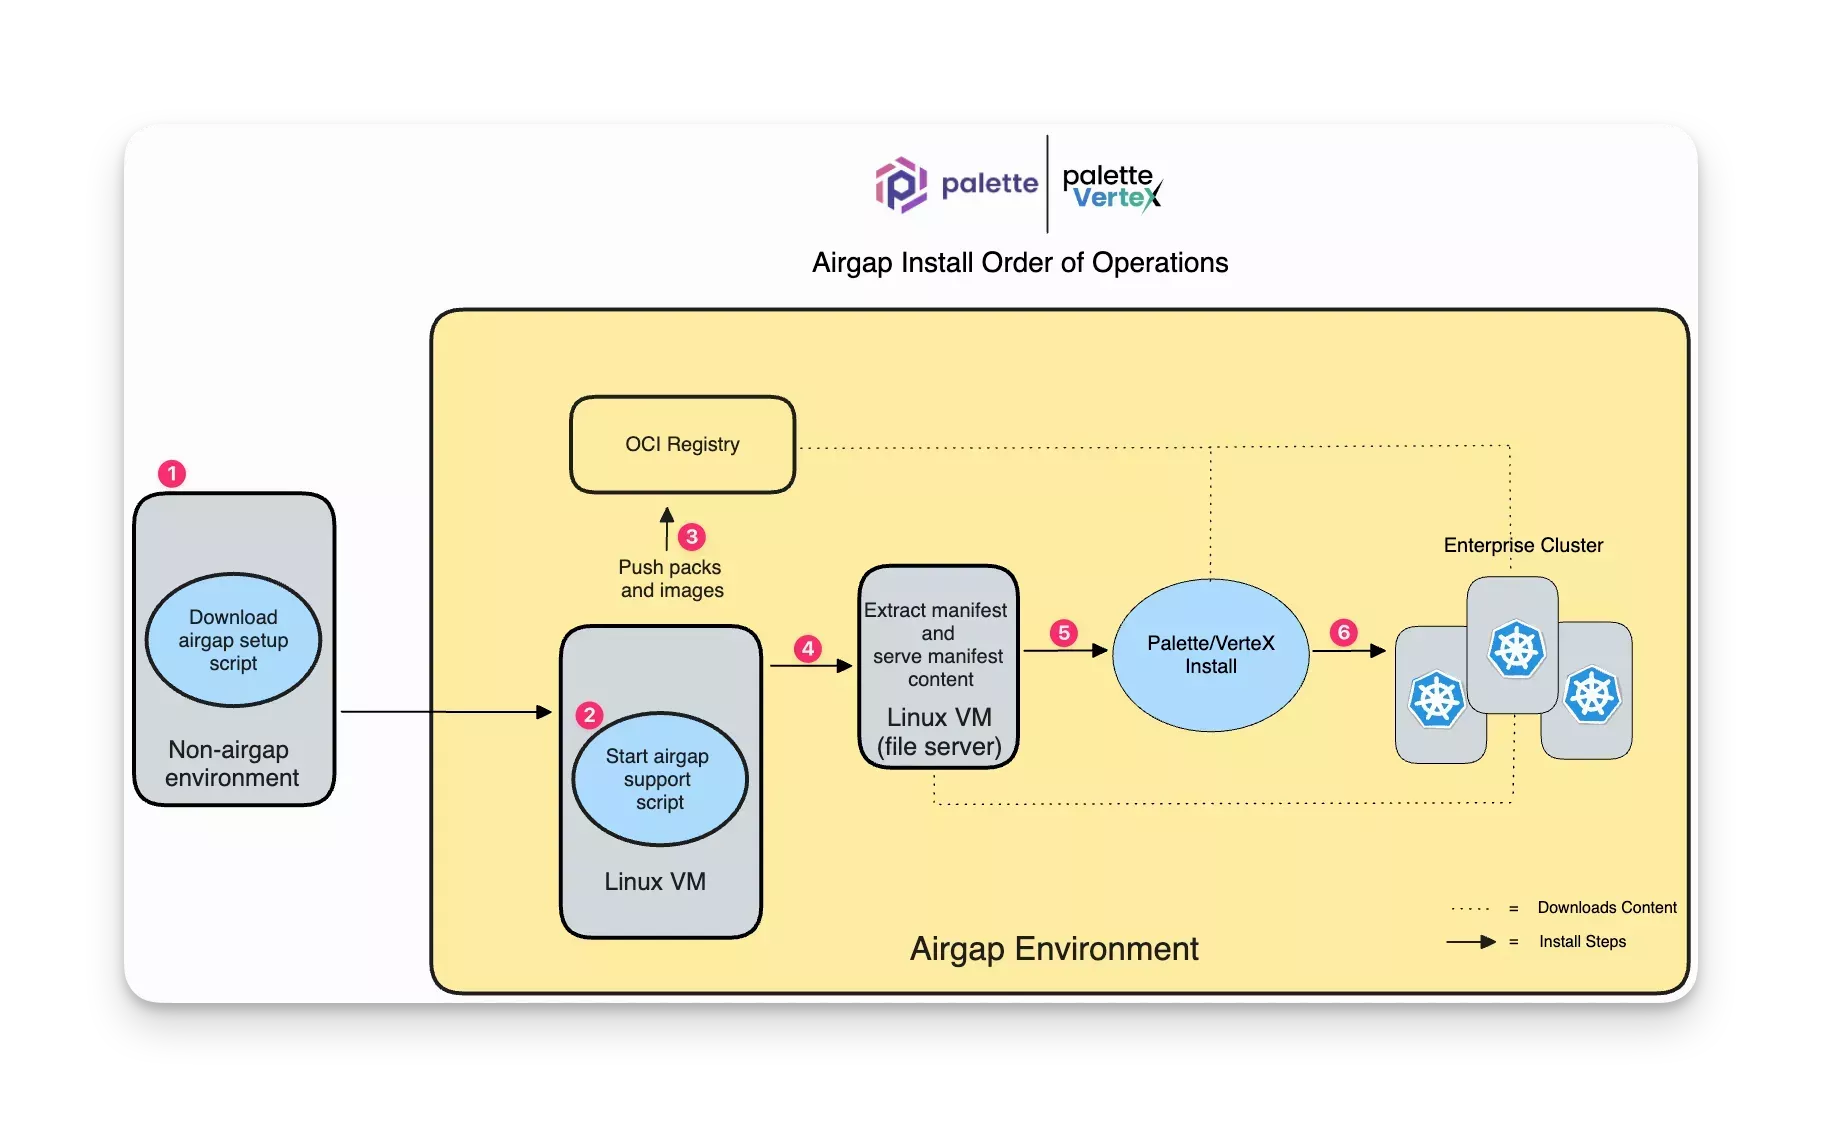
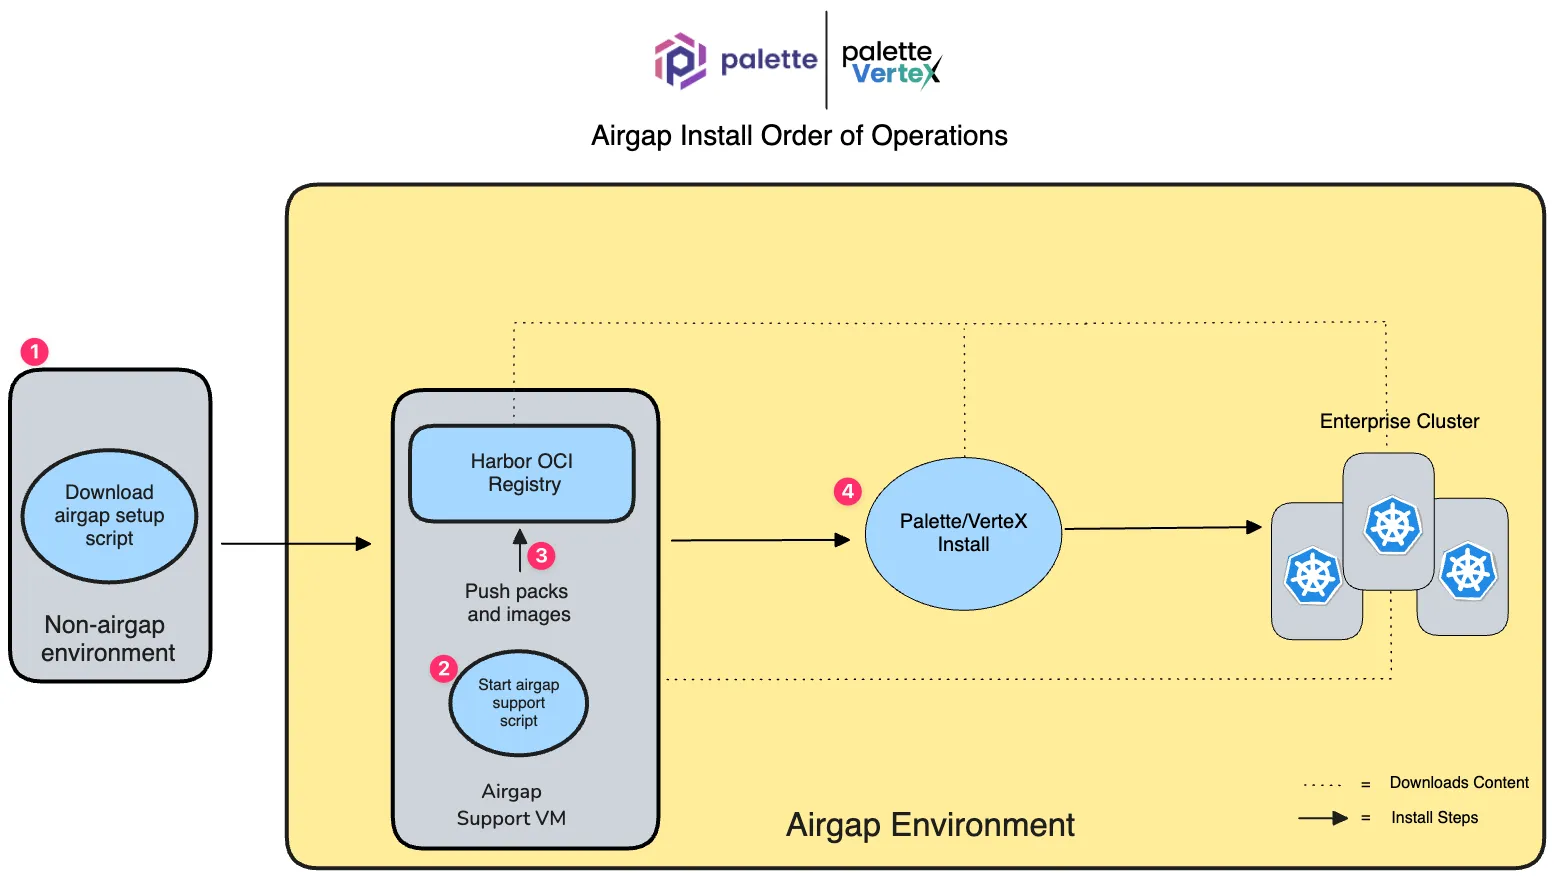
docs: update airgap overview image

diff --git a/docs/docs-content/enterprise-version/install-palette/airgap/airgap.md b/docs/docs-content/enterprise-version/install-palette/airgap/airgap.md
@@ -41,15 +41,11 @@ following diagram outlines the major pre-install steps for an airgap installatio
    content and upload the required images and packs to your private OCI registry. Start the airgap setup binary in a
    Linux Virtual Machine (VM).
 
-3. The airgap script will push the required images and packs to your private OCI registry.
+3. The airgap script will push the required images and packs the built-in [Harbor](https://goharbor.io/) OCI registry.
 
-4. Extract the manifest content from the airgap setup binary. The manifest content must be hosted on a web server that
-   is accessible from the airgap environment. You can use the same Linux VM from step 2 to host the manifest content or
-   use a different web server.
+4. Install Palette using the Palette CLI or the Kubernetes Helm chart.
 
-5. Install Palette using the Palette CLI or the Kubernetes Helm chart.
-
-6. Configure your Palette environment.
+5. Configure your Palette environment.
 
 ## Get Started
 

diff --git a/docs/docs-content/vertex/install-palette-vertex/airgap/airgap.md b/docs/docs-content/vertex/install-palette-vertex/airgap/airgap.md
@@ -41,15 +41,11 @@ following diagram outlines the major pre-install steps for an airgap installatio
    content and upload the required images and packs to your private OCI registry. Start the airgap setup binary in a
    Linux Virtual Machine (VM).
 
-3. The airgap script will push the required images and packs to your private OCI registry.
+3. The airgap script will push the required images and packs the built-in [Harbor](https://goharbor.io/) OCI registry.
 
-4. Extract the manifest content from the airgap setup binary. The manifest content must be hosted on a web server that
-   is accessible from the airgap environment. You can use the same Linux VM from step 2 to host the manifest content or
-   use a different web server.
+4. Install Palette using the Palette CLI or the Kubernetes Helm chart.
 
-5. Install Palette using the Palette CLI or the Kubernetes Helm chart.
-
-6. Configure your VerteX environment.
+5. Configure your VerteX environment.
 
 ## Get Started
 

diff --git a/docs/docs-content/enterprise-version/install-palette/install-on-vmware/airgap-install/airgap-install.md b/docs/docs-content/enterprise-version/install-palette/install-on-vmware/airgap-install/airgap-install.md
@@ -43,11 +43,7 @@ following diagram outlines the major pre-installation steps for an airgap instal
 
 3. The airgap script will push the required images and packs to your private OCI registry.
 
-4. Extract the manifest content from the airgap setup binary. The manifest content must be hosted on a web server that
-   is accessible from the airgap environment. You can use the same Linux VM from step 2 to host the manifest content or
-   use a different web server.
-
-5. Install Palette using the Palette CLI or the Kubernetes Helm chart.
+4. Install Palette using the Palette CLI or the Kubernetes Helm chart.
 
 Configure your Palette environment
 

diff --git a/docs/docs-content/vertex/install-palette-vertex/install-on-vmware/airgap-install/airgap-install.md b/docs/docs-content/vertex/install-palette-vertex/install-on-vmware/airgap-install/airgap-install.md
@@ -43,11 +43,7 @@ following diagram outlines the major pre-installation steps for an airgap instal
 
 3. The airgap script will push the required images and packs to your private OCI registry.
 
-4. Extract the manifest content from the airgap setup binary. The manifest content must be hosted on a web server that
-   is accessible from the airgap environment. You can use the same Linux VM from step 2 to host the manifest content or
-   use a different web server.
-
-5. Install Palette using the Palette CLI or the Kubernetes Helm chart.
+4. Install Palette using the Palette CLI or the Kubernetes Helm chart.
 
 Configure your Palette environment
 

diff --git a/docs/docs-content/vertex/install-palette-vertex/install-on-kubernetes/airgap-install/airgap-install.md b/docs/docs-content/vertex/install-palette-vertex/install-on-kubernetes/airgap-install/airgap-install.md
@@ -42,11 +42,7 @@ the following diagram.
 
 3. The airgap script will push the required images and packs to your private OCI registry.
 
-4. Extract the manifest content from the airgap setup binary. The manifest content must be hosted on a web server that
-   is accessible from the airgap environment. You can use the same Linux VM from step two to host the manifest content
-   or use a different web server.
-
-5. Install Palette using the Kubernetes Helm chart.
+4. Install Palette using the Kubernetes Helm chart.
 
 ## Get Started
 

diff --git a/docs/docs-content/enterprise-version/install-palette/install-on-kubernetes/airgap-install/airgap-install.md b/docs/docs-content/enterprise-version/install-palette/install-on-kubernetes/airgap-install/airgap-install.md
@@ -42,11 +42,7 @@ following diagram.
 
 3. The airgap script will push the required images and packs to your private OCI registry.
 
-4. Extract the manifest content from the airgap setup binary. The manifest content must be hosted on a web server that
-   is accessible from the airgap environment. You can use the same Linux VM from step two to host the manifest content
-   or use a different web server.
-
-5. Install Palette using the Kubernetes Helm chart.
+4. Install Palette using the Kubernetes Helm chart.
 
 ## Get Started
 
